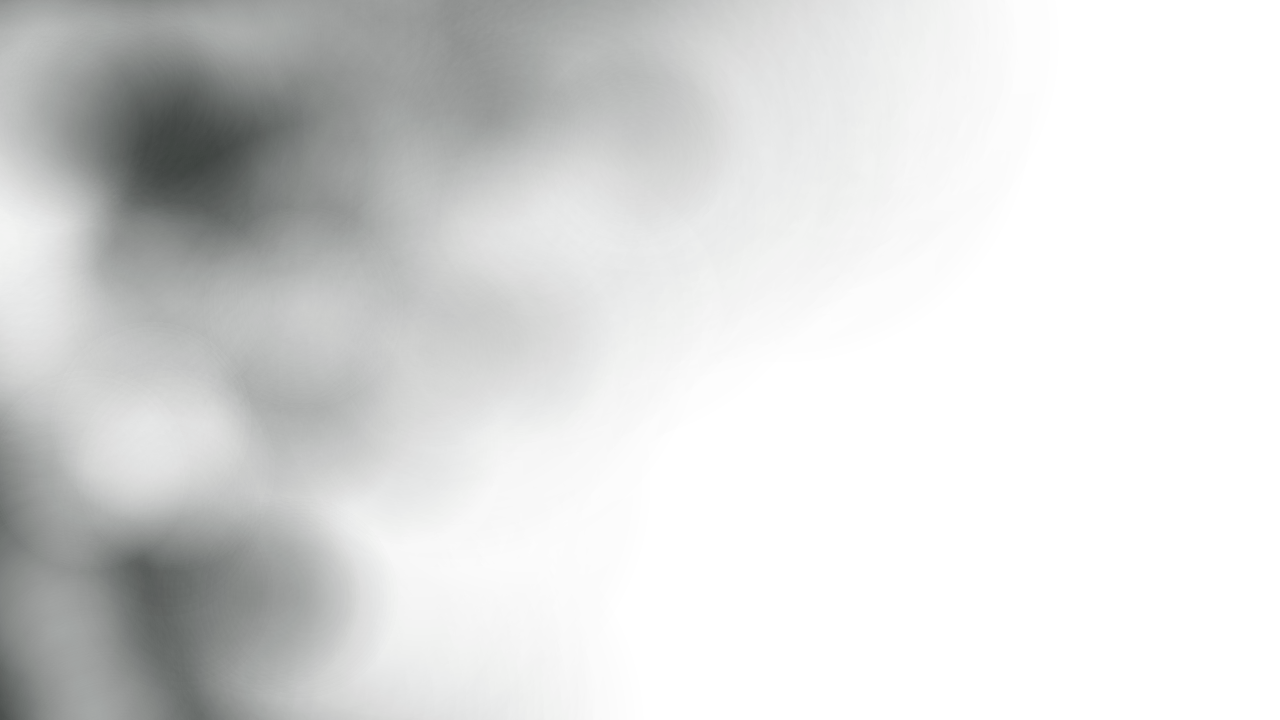
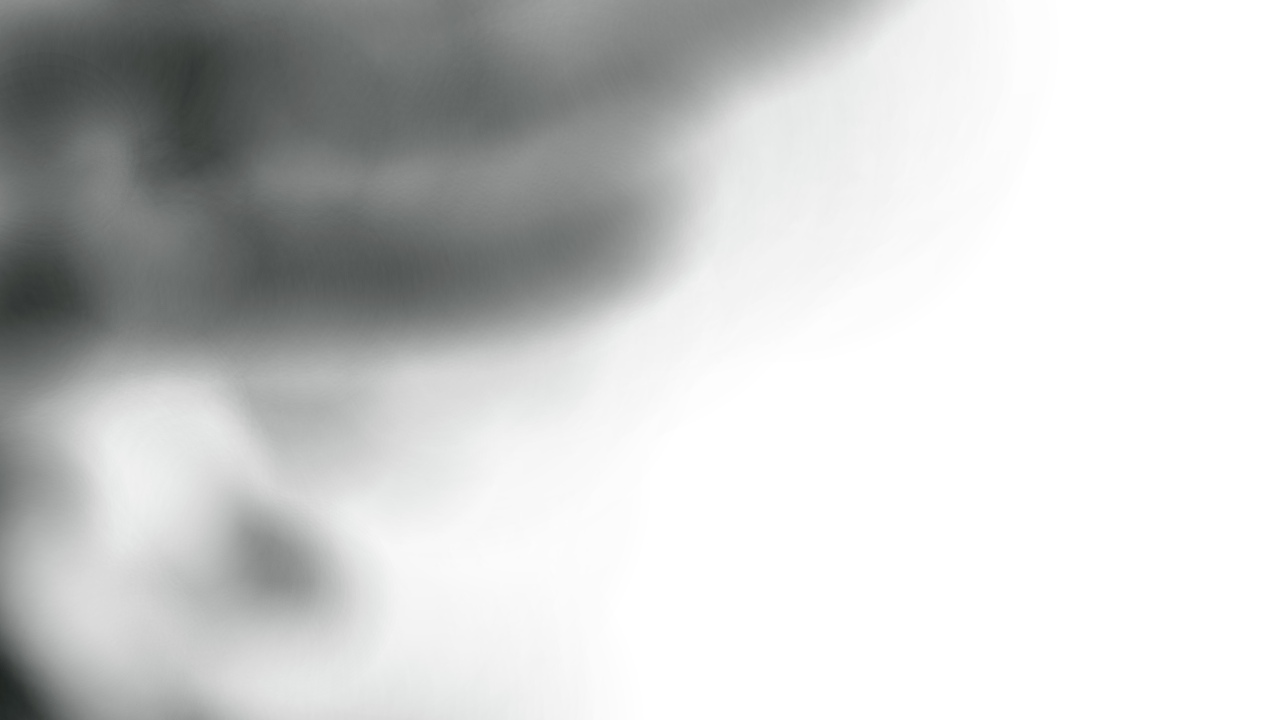
Home: her deepened hero shade, small fixes in the photograph, gold labels that read
- Hero shade layer: 25 more strokes by her hand baked into hero-shade-painted.png
- Hero photograph v3: five small fingertip fixes she made with the heal brush
- Small gold labels and links on light grounds deepened so they read
- Closing photograph keeps its proportion while loading

diff --git a/index.html b/index.html
@@ -2157,7 +2157,7 @@
     body[data-content-page="home"] .nl-bar .newsletter-trust { font-size: .82rem !important; line-height: 1.5 !important; margin: 1.1rem 0 0 !important; text-align: center !important; }
     body[data-content-page="home"] .nl-bar .newsletter-trust-sep { display: inline !important; opacity: 1 !important; height: auto !important; }
     body[data-content-page="home"] .nl-photo { margin: 0; padding: 0; background: #1b1513; }
-    body[data-content-page="home"] .nl-photo img { display: block; width: 100%; height: auto; }
+    body[data-content-page="home"] .nl-photo img { display: block; width: 100%; height: auto; aspect-ratio: 1916 / 821; }
     @media (max-width: 700px) {
       body[data-content-page="home"] .section-newsletter.nl-bar { padding: 0 1rem 3rem !important; }
       body[data-content-page="home"] .nl-bar-inner { padding: 2rem 1.1rem 1.75rem; }
@@ -2188,7 +2188,7 @@
           radial-gradient(ellipse 27% 12% at 22% 75%, rgba(4,10,7,.58) 0%, rgba(4,10,7,.36) 50%, rgba(4,10,7,0) 100%),
           radial-gradient(ellipse 20% 70% at 0% 42%, rgba(4,10,7,.66) 0%, rgba(4,10,7,.40) 50%, rgba(4,10,7,0) 100%) !important; }
       /* her hand-painted shade (188 brush strokes, 2026-11-08), rendered from hero-lock/hero-strokes-final-261108.json */
-      body[data-content-page="home"] .hero-overlay::after { content: ''; position: absolute; inset: 0; z-index: 1; pointer-events: none; background: url('images/uploads/hero-shade-painted.png?v=188') center / 100% 100% no-repeat; }
+      body[data-content-page="home"] .hero-overlay::after { content: ''; position: absolute; inset: 0; z-index: 1; pointer-events: none; background: url('images/uploads/hero-shade-painted.png?v=213') center / 100% 100% no-repeat; }
       body[data-content-page="home"] .hero-fullbleed.aa-arranging .hero-overlay::after { display: none; }
       body[data-content-page="home"] .hero-overlay-inner { --hx: 5.463; --hy: 8.709; --hs: 1.46; --u: calc(1vw * var(--hs));
         position: absolute !important; z-index: 2; left: calc(var(--hx) * 1vw); top: calc(var(--hy) * .5625vw); bottom: auto; width: max-content !important; max-width: none !important; padding: calc(var(--u) * 1.2) !important; margin: 0 !important; display: flex !important; flex-direction: column; align-items: flex-start; text-align: left !important; background: none; box-shadow: none; }
@@ -2220,6 +2220,12 @@
       body[data-content-page="home"] .hero-brand, body[data-content-page="home"] .hero-brand-rule { display: none !important; }
       body[data-content-page="home"] .hero-overlay::before { background: linear-gradient(180deg, rgba(0,0,0,.10) 0%, rgba(0,0,0,.08) 30%, rgba(0,0,0,.62) 58%, rgba(0,0,0,.78) 100%) !important; }
     }
+  
+    /* Gold that reads (2026-11-08, her yes): the small gold labels and links that sit on light grounds take a deeper
+       ink-gold (about 5.4:1 on cream; they were 2.1:1). Dark sections (hero, the call, footer) keep the pale gold. */
+    body[data-content-page="home"] .section-the-work .section-label, body[data-content-page="home"] .work-path-eyebrow, body[data-content-page="home"] .work-path-cta, body[data-content-page="home"] .testimonial-author, body[data-content-page="home"] .testimonial-author span, body[data-content-page="home"] .begin-doorway-eyebrow, body[data-content-page="home"] .begin-doorway-cta, body[data-content-page="home"] .newsletter-intake-link { color: #7D6126 !important; }
+    body[data-content-page="home"] .newsletter-intake-link { border-bottom-color: rgba(125, 97, 38, .45) !important; }
+    body[data-content-page="home"] .section-story .story-text .story-evolution strong, body[data-content-page="home"] .section-practitioner .practitioner-serves-quote .practitioner-serves-epigraph { color: #8F6F2E !important; }
   </style>
   <link rel="stylesheet" href="css/doors.css?v=261108">
   <link rel="stylesheet" href="css/menu.css?v=261108">
@@ -2338,7 +2344,7 @@
     </div>
   </section>
   <!-- arrange mode (local tool, not shipped): with ?arrange=1 this loads js/hero-arrange.dev.js if it exists on this machine -->
-  <script>if(/[?&]arrange=1\b/.test(location.search)){var s=document.createElement('script');s.src='js/hero-arrange.dev.js';document.body.appendChild(s);}</script>
+  <script>if(/[?&]arrange=1\b/.test(location.search)){var s=document.createElement('script');s.src='js/hero-arrange.dev.js?t='+Date.now();document.body.appendChild(s);}</script>
 
 
   <!-- &mdash;&mdash;&mdash; METAMORPHOSIS &mdash;&mdash;&mdash; -->
